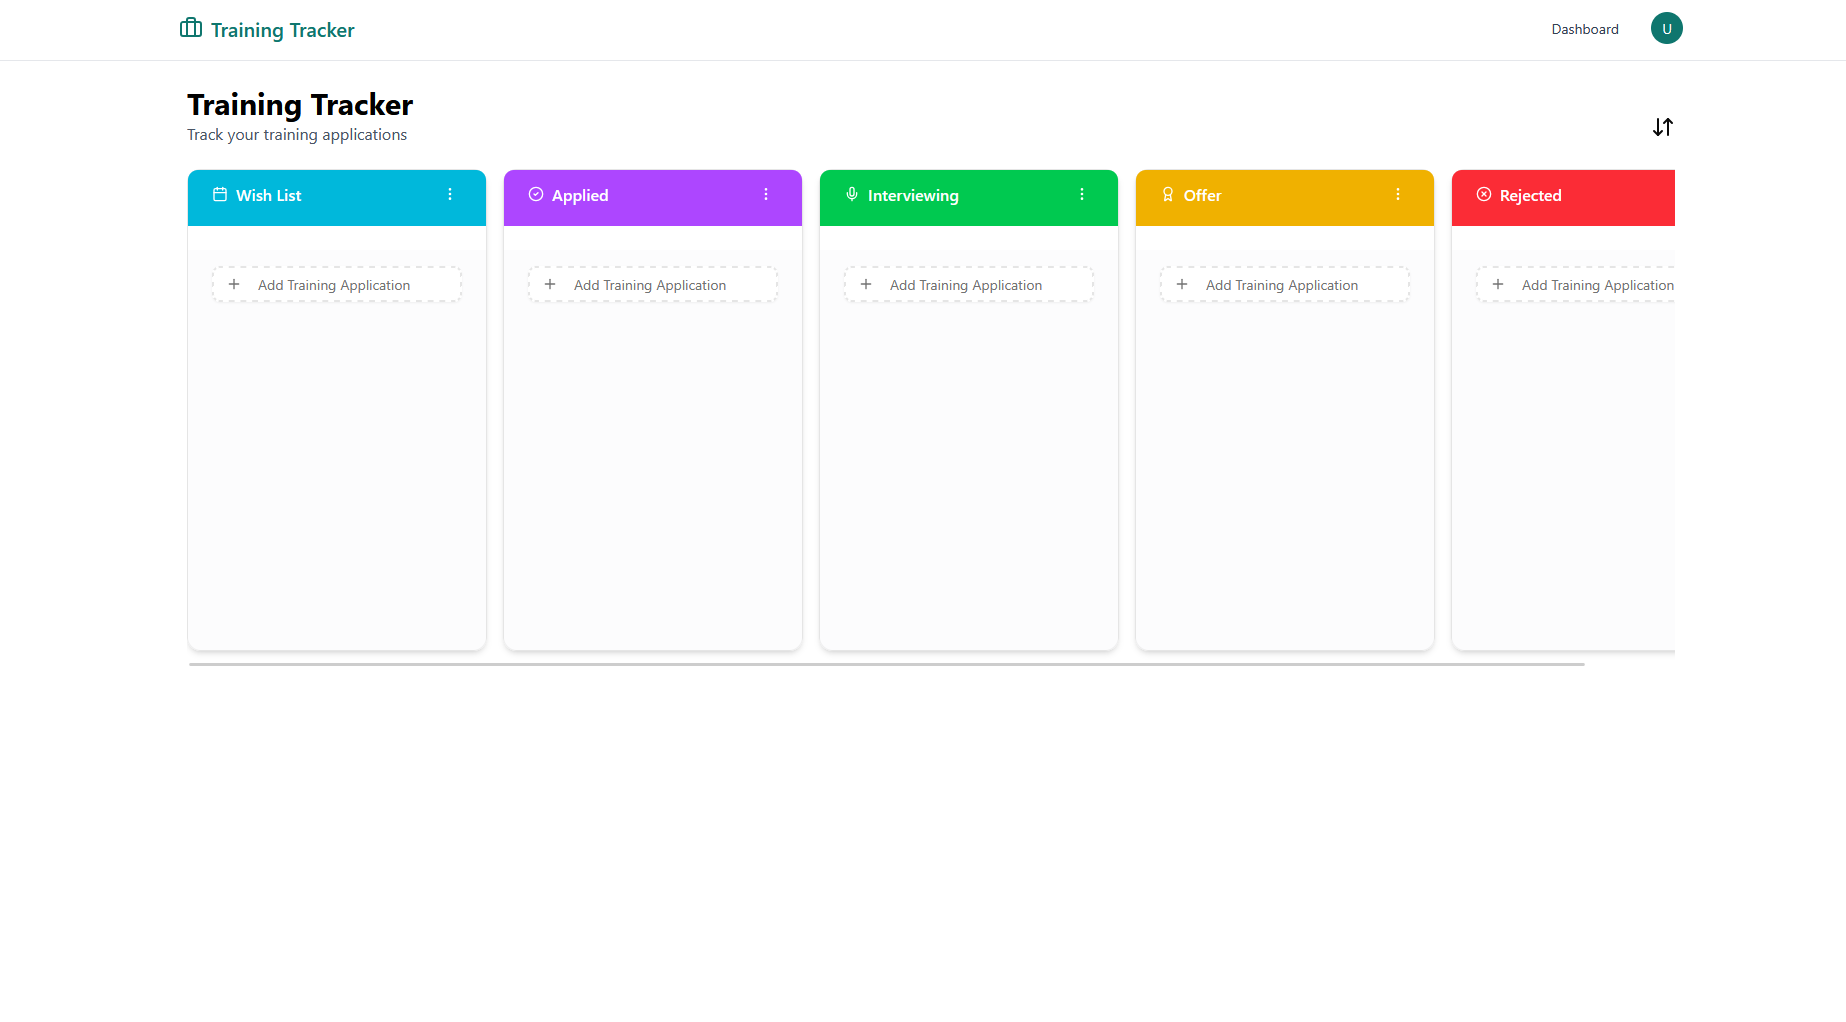
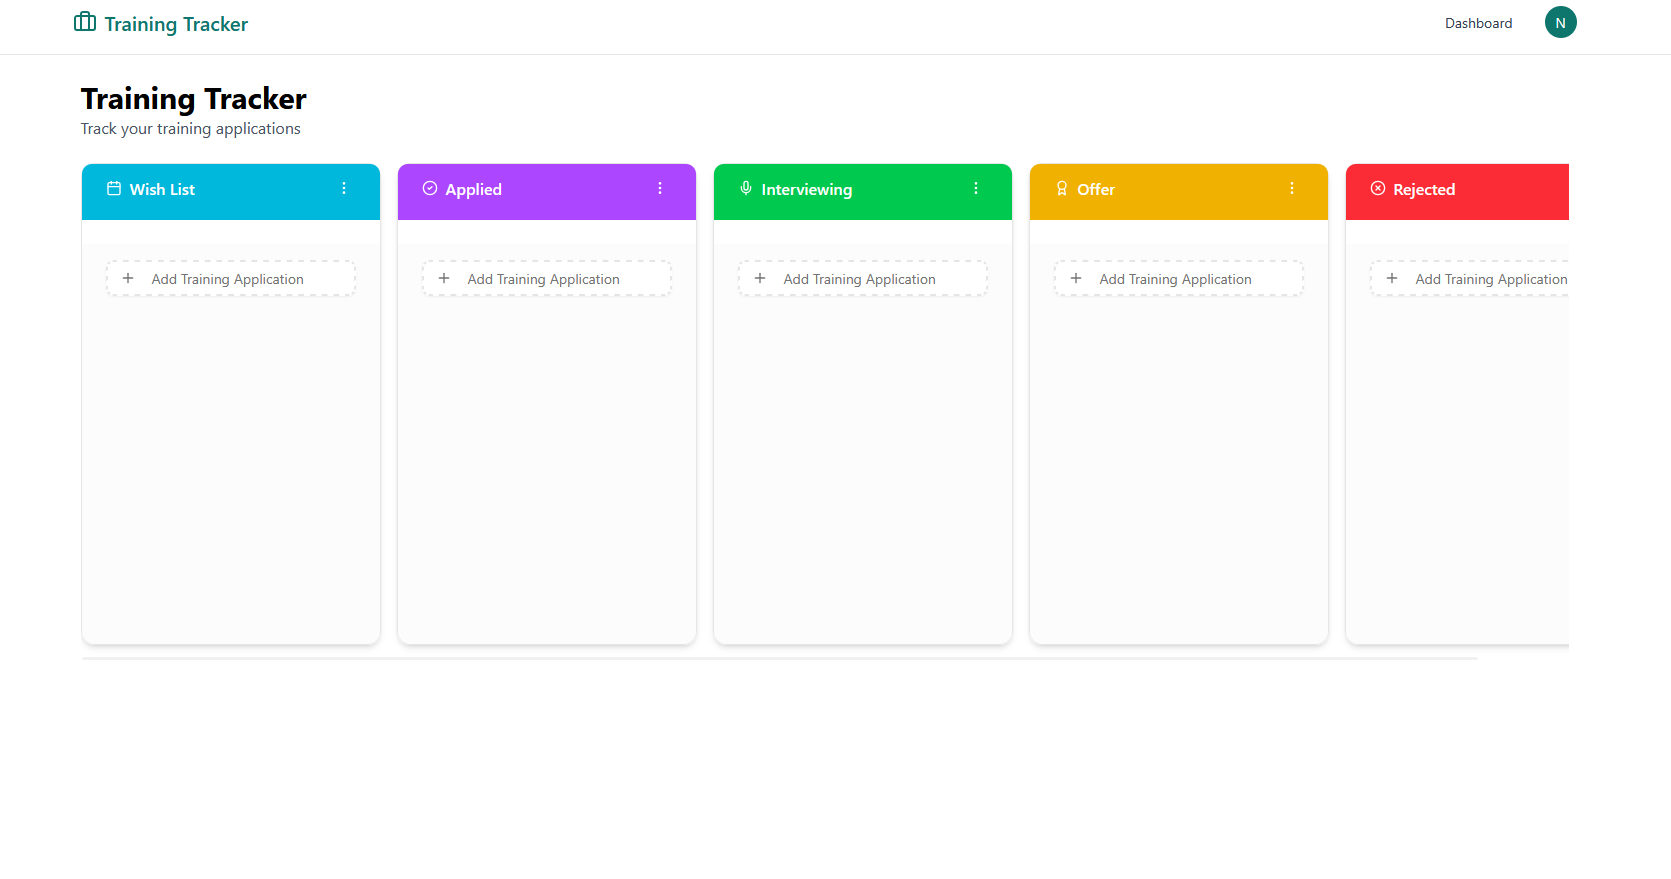
fix database connection

diff --git a/src/lib/auth/auth.ts b/src/lib/auth/auth.ts
@@ -4,8 +4,11 @@ import { MongoClient } from "mongodb";
 import { headers } from "next/headers";
 import { redirect } from "next/navigation";
 import { initializeUserBoard } from "../init-user-board";
+import dns from "dns";
 
-const client = new MongoClient(process.env.MONGODB_URI!);
+dns.setServers(["1.1.1.1", "8.8.8.8"]);
+
+const client = new MongoClient(process.env.mongo_noSrv!);
 const db = client.db();
 
 export const auth = betterAuth({
@@ -13,7 +16,7 @@ export const auth = betterAuth({
   session: {
     cookieCache: {
       enabled: true,
-      maxAge: 5 * 60, // 5 minutes
+      maxAge: 60 * 60, // 1 hour
     },
   },
   emailAndPassword: {
